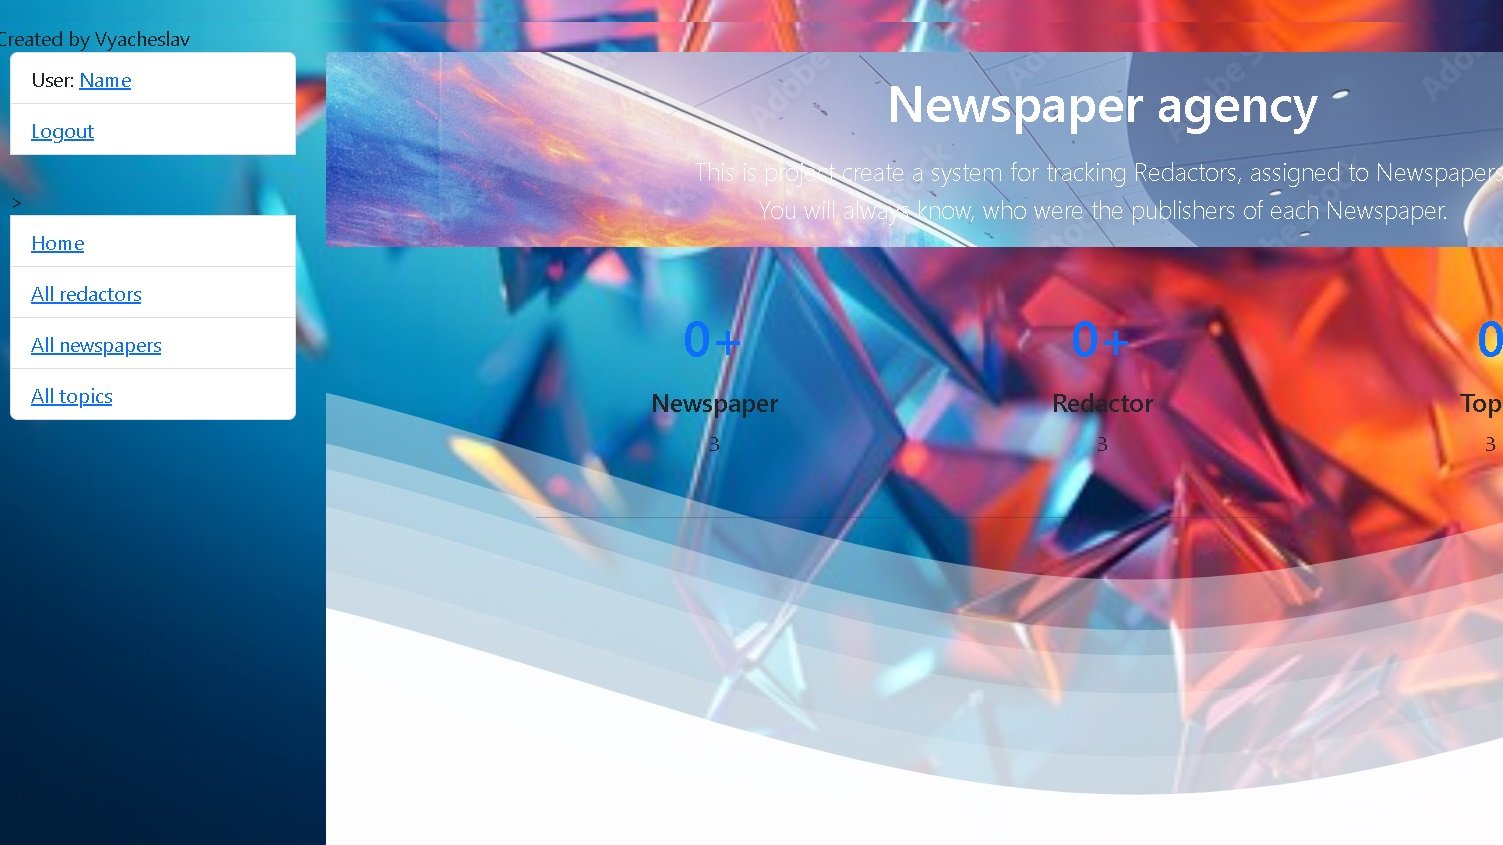
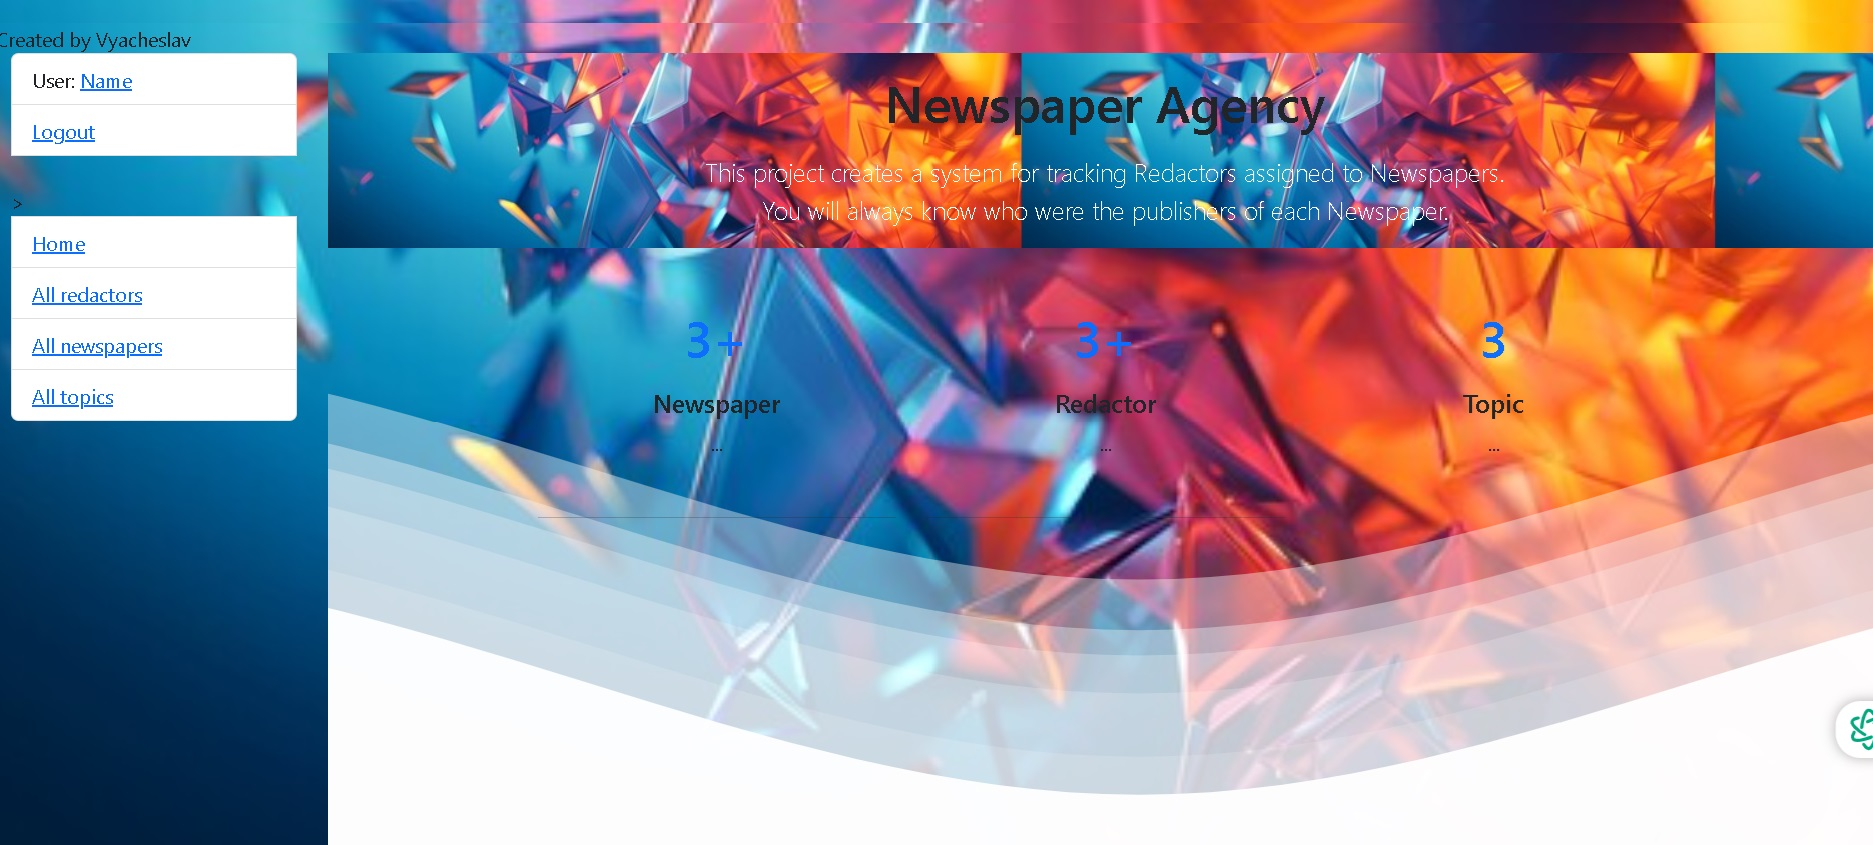
Describe the changes you made here

diff --git a/templates/catalog/index.html b/templates/catalog/index.html
@@ -3,21 +3,24 @@
 
 {% block title %} Created by Vyacheslav {% endblock title %}
 
-{% block body %} class="index-page bg-gray-200" {% endblock body %}
+{% block body %}
+
+{% endblock body %}
 
 {% block content %}
-
     <header class="header-2">
         <div class="page-header min-vh-75 relative"
-             style="background-image: url('{% static 'curved-images/curved1.jpg' %}')">
+             style="background-image: url('{% static 'curved-images/curved.jpg' %}')">
             <div class="container">
                 <div class="row">
                     <div class="col-lg-7 text-center mx-auto">
-                        <h1 class="text-white pt-3 mt-n5">
-                            Newspaper agency
+                        <h1 class="text-green pt-3 mt-n5">
+                            Newspaper Agency
                         </h1>
-                        <p class="lead text-white mt-3">This is project create a system for tracking Redactors, assigned
-                            to Newspapers. <br/> You will always know, who were the publishers of each Newspaper. </p>
+                        <p class="lead text-white mt-3">
+                            This project creates a system for tracking Redactors assigned to Newspapers.
+                            <br/> You will always know who were the publishers of each Newspaper.
+                        </p>
                     </div>
                 </div>
             </div>
@@ -30,18 +33,18 @@
                               d="M-160 44c30 0 58-18 88-18s58 18 88 18 58-18 88-18 58 18 88 18v44h-352z"></path>
                     </defs>
                     <g class="moving-waves">
-                        <use xlink:href="#gentle-wave" x="48" y="-1" fill="rgba(255,255,255,0.40"></use>
+
+                        <use xlink:href="#gentle-wave" x="48" y="-1" fill="rgba(255,255,255,0.40)"></use>
                         <use xlink:href="#gentle-wave" x="48" y="3" fill="rgba(255,255,255,0.35)"></use>
                         <use xlink:href="#gentle-wave" x="48" y="5" fill="rgba(255,255,255,0.25)"></use>
                         <use xlink:href="#gentle-wave" x="48" y="8" fill="rgba(255,255,255,0.20)"></use>
                         <use xlink:href="#gentle-wave" x="48" y="13" fill="rgba(255,255,255,0.15)"></use>
-                        <use xlink:href="#gentle-wave" x="48" y="16" fill="rgba(255,255,255,0.95"></use>
+                        <use xlink:href="#gentle-wave" x="48" y="16" fill="rgba(255,255,255,0.95)"></use>
                     </g>
                 </svg>
             </div>
         </div>
     </header>
-
 
     <section class="pt-3 pb-4" id="count-stats">
         <div class="container">
@@ -50,25 +53,25 @@
                     <div class="row">
                         <div class="col-md-4 position-relative">
                             <div class="p-3 text-center">
-                                <h1 class="text-gradient text-primary"><span id="state1" countTo="70">0</span>+</h1>
-                                <h5 class="mt-3">Newspaper</h5>
-                                <p class="text-sm">3</p>
+                                <h1 class="text-gradient text-primary"><span id="state1" countTo="70">3</span>+</h1>
+                                <h5 class="text-dark mt-3">Newspaper</h5>
+                                <p class="text-sm">...</p>
                             </div>
                             <hr class="vertical dark">
                         </div>
                         <div class="col-md-4 position-relative">
                             <div class="p-3 text-center">
-                                <h1 class="text-gradient text-primary"><span id="state2" countTo="15">0</span>+</h1>
-                                <h5 class="mt-3">Redactor</h5>
-                                <p class="text-sm">3</p>
+                                <h1 class="text-gradient text-primary"><span id="state2" countTo="15">3</span>+</h1>
+                                <h5 class="text-dark mt-3">Redactor</h5>
+                                <p class="text-sm">...</p>
                             </div>
                             <hr class="vertical dark">
                         </div>
                         <div class="col-md-4">
                             <div class="p-3 text-center">
-                                <h1 class="text-gradient text-primary" id="state3" countTo="4">0</h1>
-                                <h5 class="mt-3">Topic</h5>
-                                <p class="text-sm">3</p>
+                                <h1 class="text-gradient text-primary" id="state3" countTo="4">3</h1>
+                                <h5 class="text-dark mt-3">Topic</h5>
+                                <p class="text-sm">...</p>
                             </div>
                         </div>
                     </div>
@@ -79,16 +82,14 @@
 {% endblock content %}
 
 {% block javascript %}
-
     <script type="text/javascript">
         class CountUp {
             constructor(elementId, countTo) {
-                this.element = document.getElementById(elementId);  
-                this.countTo = parseInt(countTo, 10);  
-                this.currentCount = 0;  
-                this.speed = 50;  
+                this.element = document.getElementById(elementId);
+                this.countTo = parseInt(countTo, 10);
+                this.currentCount = 0;
+                this.speed = 50;
             }
-
 
             start() {
                 this.interval = setInterval(() => {
@@ -117,5 +118,4 @@
             countUp3.start();
         }
     </script>
-
 {% endblock javascript %}

diff --git a/templates/catalog/topic_list.html b/templates/catalog/topic_list.html
@@ -2,48 +2,51 @@
 {% load crispy_forms_filters %}
 
 {% block content %}
-  <h1>Topic List</h1>
-  
-  <h2>
-    <a href="{% url 'catalog:topic-create' %}" class="btn btn-primary link-to-page">
-      Create
-    </a>
-  </h2>
-    
-  <form action="" method="get" class="form-inline mb-3">
-    {{ search_form|crispy }}
-    <input class="btn btn-primary" type="submit" value="🔍" aria-label="Search topics">
-  </form>
+    <h1>Topic List</h1>
 
-  {% if topic_list %}
-    <table class="table table-striped">
-      <thead>
-        <tr>
-          <th class="white-text">ID</th>
-          <th class="white-text">Name</th>
-          <th class="white-text">Newspapers</th>
-          <th class="white-text">Actions</th>
-        </tr>
-      </thead>
-      <tbody>
-        {% for topic in topic_list %}
-          <tr class="table-hover">
-            <td>{{ topic.id }}</td>
-            <td>{{ topic.name }}</td>
-            <td>
-              <a href="{% url 'catalog:topic-detail' pk=topic.id %}">
-                {{ topic.newspaper.count }} - newspaper{{ topic.newspaper.count|pluralize }}
-              </a>
-            </td>
-            <td>
-              <a href="{% url 'catalog:topic-update' pk=topic.id %}" class="btn btn-warning btn-sm" aria-label="Update topic {{ topic.name }}">Update</a>
-              <a href="{% url 'catalog:topic-delete' pk=topic.id %}" class="btn btn-danger btn-sm" aria-label="Delete topic {{ topic.name }}" onclick="return confirm('Are you sure you want to delete this topic?');">Delete</a>
-            </td>
-          </tr>
-        {% endfor %}
-      </tbody>
-    </table>
-  {% else %}
-    <p>There are no topics in the agency. <a href="{% url 'catalog:topic-create' %}">Create a new topic</a>.</p>
-  {% endif %}
+    <h2>
+        <a href="{% url 'catalog:topic-create' %}" class="btn btn-primary link-to-page">
+            Create
+        </a>
+    </h2>
+
+    <form action="" method="get" class="form-inline mb-3">
+        {{ search_form|crispy }}
+        <input class="btn btn-primary" type="submit" value="🔍" aria-label="Search topics">
+    </form>
+
+    {% if topic_list %}
+        <table class="table table-striped">
+            <thead>
+            <tr>
+                <th style="color: black;">ID</th>
+                <th style="color: black;">Name</th>
+                <th style="color: black;">Newspapers</th>
+                <th style="color: black;">Actions</th>
+            </tr>
+            </thead>
+            <tbody>
+            {% for topic in topic_list %}
+                <tr class="table-hover">
+                    <td class="text-blue">{{ topic.id }}</td>
+                    <td class="text-blue">{{ topic.name }}</td>
+                    <td>
+                        <a class="text-blue" href="{% url 'catalog:topic-detail' pk=topic.id %}">
+                            {{ topic.newspaper.count }} - newspaper{{ topic.newspaper.count|pluralize }}
+                        </a>
+                    </td>
+                    <td>
+                        <a href="{% url 'catalog:topic-update' pk=topic.id %}" class="btn btn-warning btn-sm"
+                           aria-label="Update topic {{ topic.name }}">Update</a>
+                        <a href="{% url 'catalog:topic-delete' pk=topic.id %}" class="btn btn-danger btn-sm"
+                           aria-label="Delete topic {{ topic.name }}"
+                           onclick="return confirm('Are you sure you want to delete this topic?');">Delete</a>
+                    </td>
+                </tr>
+            {% endfor %}
+            </tbody>
+        </table>
+    {% else %}
+        <p>There are no topics in the agency. <a href="{% url 'catalog:topic-create' %}">Create a new topic</a>.</p>
+    {% endif %}
 {% endblock %}

diff --git a/templates/catalog/newspaper_list.html b/templates/catalog/newspaper_list.html
@@ -4,30 +4,49 @@
 {% block content %}
     <h1>Newspaper List</h1>
     <h2>
-        
         <a href="{% url 'catalog:newspaper-create' %}" class="btn btn-primary link-to-page">
             Create
         </a>
     </h2>
-    
+
     <form action="" method="get" class="form-inline mb-3">
         {{ search_form|crispy }}
-        <input class="btn btn-primary" type="submit" value="🔍" aria-label="Search Newspapers">
+        <input class="btn btn-primary" type="submit" value="🔍" aria-label="Search newspapers by title or topic">
     </form>
-    
+
     {% if newspaper_list %}
         <ul class="list-unstyled">
             {% for newspaper in newspaper_list %}
                 <li>
-                    <a href="{% url 'catalog:newspaper-detail' pk=newspaper.id %}" aria-label="Read newspaper {{ newspaper.title }}">
+                    <a href="{% url 'catalog:newspaper-detail' pk=newspaper.id %}"
+                       aria-label="Read newspaper titled {{ newspaper.title }} on {{ newspaper.topic.name }}"
+                       style="color: white; line-height: 1.8;">
                         {{ newspaper.id }} - {{ newspaper.title }} ({{ newspaper.topic.name }})
                     </a>
                 </li>
             {% endfor %}
         </ul>
+
+
+        <div class="pagination">
+            {% if newspaper_list.has_previous %}
+                <a href="?page=1">&laquo; First</a>
+                <a href="?page={{ newspaper_list.previous_page_number }}">Previous</a>
+            {% endif %}
+            <span>Page {{ newspaper_list.number }} of {{ newspaper_list.paginator.num_pages }} 1 </span>
+            {% if newspaper_list.has_next %}
+                <a href="?page={{ newspaper_list.next_page_number }}">Next</a>
+                <a href="?page={{ newspaper_list.paginator.num_pages }}">Last &raquo;</a>
+            {% endif %}
+        </div>
+
     {% else %}
         <div class="alert alert-info" role="alert">
-            There are no newspapers in the newspaper agency.
+            {% if search_form.cleaned_data %}
+                No newspapers found for your search.
+            {% else %}
+                There are no newspapers in the newspaper agency.
+            {% endif %}
         </div>
     {% endif %}
 {% endblock %}
